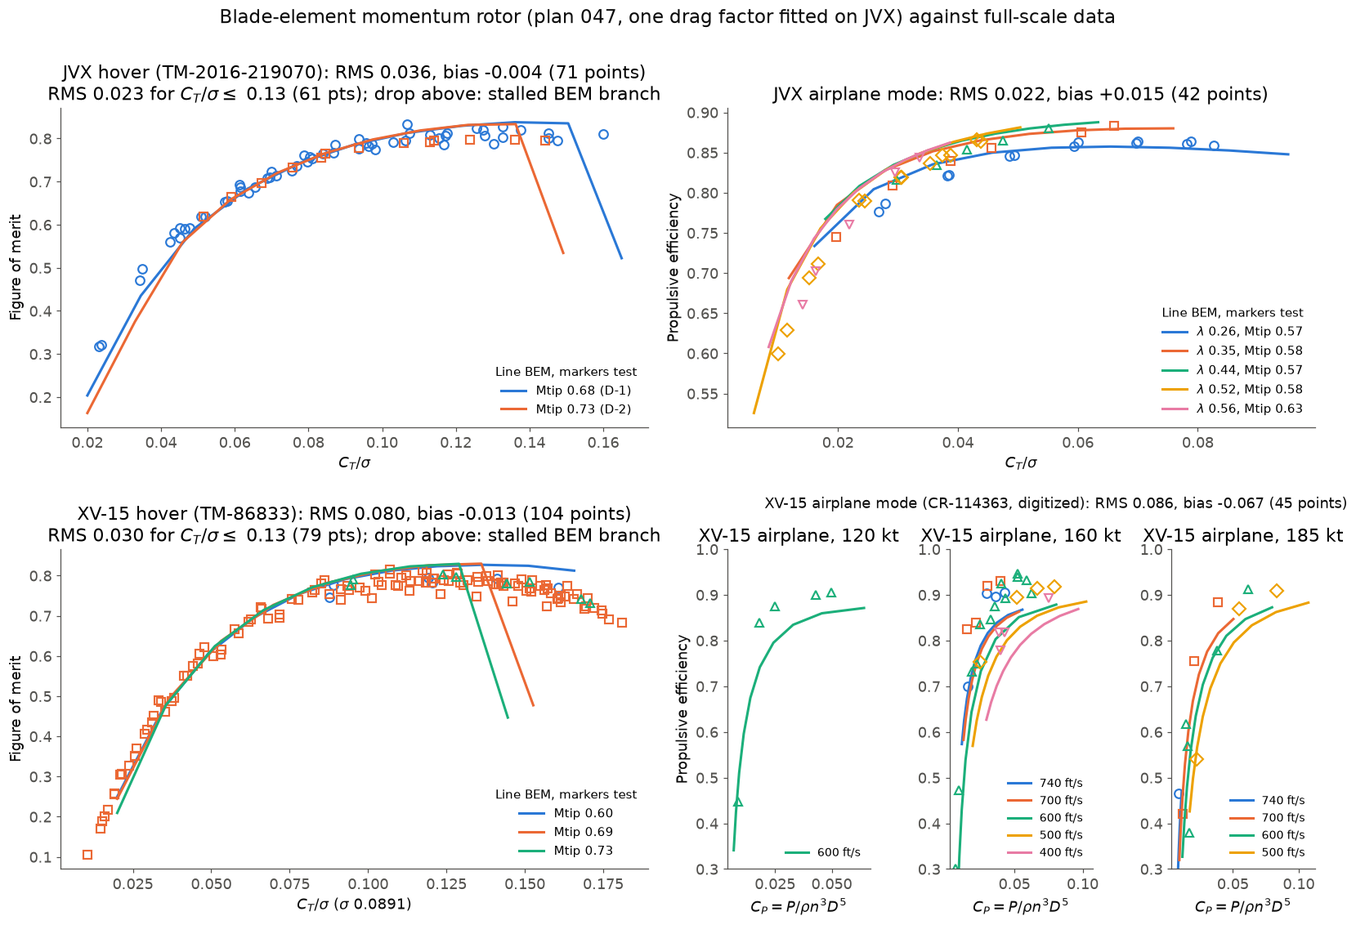
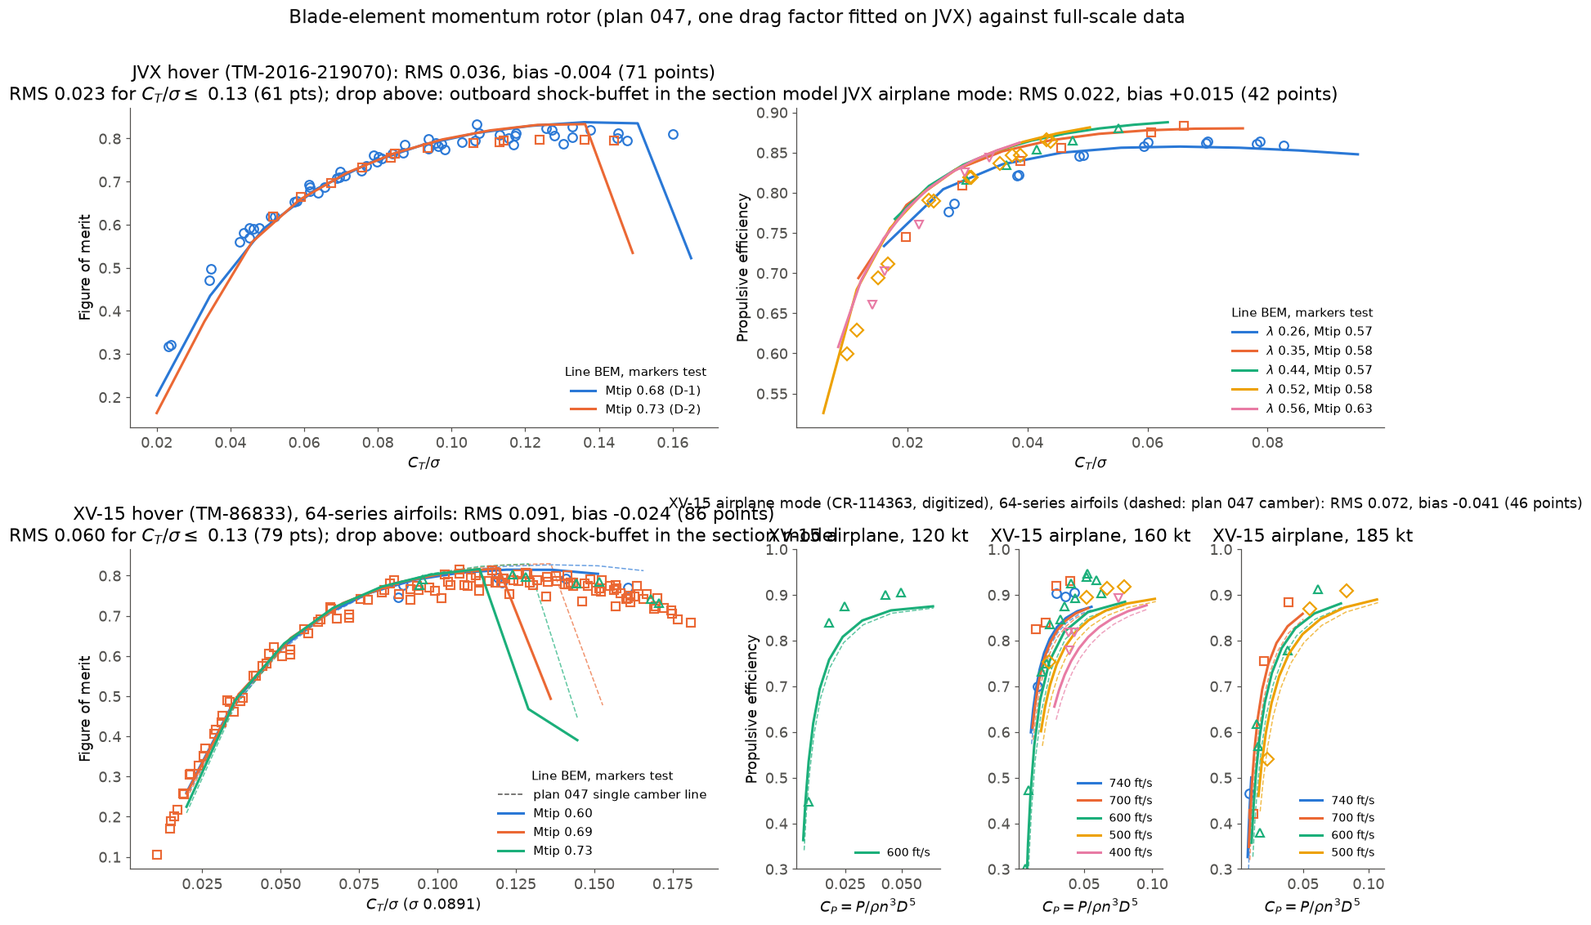
feat(powertrain): XV-15 BEM on its own NACA 64-series airfoils; hover cliff traced to outboard buffet (plan 052)
SectionSchedule.lift_design builds each station as 64-series thickness on an a-series mean line
at the local design lift coefficient, with thin-airfoil zero-lift angles for the stall delay.
XV-15 airplane-mode bias -0.067 -> -0.041. The hover drop above C_T/sigma ~0.13 is Mach-driven:
AeroSandbox's shock-buffet onset on the outboard sections, not inboard stall. Hover sweeps keep the
highest-FM solution of every start.

diff --git a/examples/proprotor_bemt_curves.py b/examples/proprotor_bemt_curves.py
@@ -15,8 +15,8 @@ The drag factor stays at the JVX fit (0.964): the XV-15 is a prediction, not a f
 XV-15 blade (TM-86833 Table I and figures 5-8; CR-114363 Table III-1): radius 150 in, 3 blades, solidity 0.0891;
 chord 14 in, with the root cuff tapering from 16.6 in at 0.091 R to 14 in at 0.25 R; twist digitized from figure 5
 (about 36 deg from 0.10 R to the tip, nonlinear); t/c from figure 6 (0.32 at the root to 0.08 at the tip). Sections are
-the plan 047 family (one NACA 64A210 camber line, thickness scaled); the real blade's NACA 64-935 to 64-208 sections
-carry much more camber inboard, which this does not model. Root cutout 0.09 R.
+the blade's own NACA 64-935 to 64-208 sections (a = 0.3 mean line at each design lift coefficient, `airfoils="64-series"`,
+the default) or plan 047's single 64A210 camber line (`airfoils="plan-047"`). Root cutout 0.09 R.
 
 Model error is read off the curve: each measured point is compared with the curve interpolated at its own C_T/sigma
 (hover, JVX airplane mode) or C_P (XV-15 airplane mode).
@@ -57,9 +57,23 @@ def xv15_blade():
                          fraction_control_chord=(0.09, 0.25, 1.0), interpolation_chord="linear")
 
 
-def xv15_rotor(drag_factor=None, **kwargs):
-    sections = SectionSchedule(fraction_radius=(0.09, 0.17, 0.30, 0.51, 0.80, 1.00),
-                               thickness_to_chord=(0.32, 0.28, 0.235, 0.185, 0.125, 0.082))
+# XV-15 airfoils (TM-86833 fig. 8; CR-114363 Table III-1, a = 0.3 mean line): NACA 64-935, 64-528, 64-118,
+# 64-(1.5)12 and 64-208 at 0.09, 0.17, 0.51, 0.80 and 1.0 R; design lift coefficient = first digit after the dash / 10.
+airfoil_xv15_fraction = (0.09, 0.17, 0.51, 0.80, 1.00)
+lift_design_xv15 = (0.9, 0.5, 0.1, 0.15, 0.2)
+
+
+def xv15_rotor(drag_factor=None, airfoils="64-series", **kwargs):
+    """`airfoils` "64-series": the blade's own NACA 64-series sections (a = 0.3 mean line at each station's design
+    lift coefficient, t/c from fig. 6); "plan-047": the single NACA 64A210 camber line of plan 047."""
+    fractions = (0.09, 0.17, 0.30, 0.51, 0.80, 1.00)
+    thickness = (0.32, 0.28, 0.235, 0.185, 0.125, 0.082)
+    if airfoils == "64-series":
+        sections = SectionSchedule(fraction_radius=fractions, thickness_to_chord=thickness,
+                                   lift_design=tuple(onp.interp(fractions, airfoil_xv15_fraction, lift_design_xv15)),
+                                   mean_line_a=0.3)
+    else:
+        sections = SectionSchedule(fraction_radius=fractions, thickness_to_chord=thickness)
     extra = {} if drag_factor is None else {"drag_factor": drag_factor}
     return BladeElementRotor(radius_m=radius_xv15_m, count_blades=3, fraction_root=0.09, blade=xv15_blade(),
                              sections=sections, **extra, **kwargs)
@@ -177,14 +191,22 @@ def sweep(rotor, condition, start_fraction=0.6):
                                float(grid[index]), air=air)
         attempts = ([lambda: solve_point(rotor, point, guess=guess)] if guess is not None else []) + \
                    [lambda: solve_point_stepped(rotor, point), lambda: solve_point(rotor, point)]
+        # Near hover stall there are two solutions, attached and stalled, and continuation can drift onto the
+        # stalled one. In hover every start is tried and the lowest-power (highest-FM) solution kept; in airplane
+        # mode the first valid one is kept.
+        best = None
         for attempt in attempts:
             try:
                 result, collective = attempt()
             except RuntimeError:
                 continue
-            if valid(result, grid[index]):
+            if not valid(result, grid[index]):
+                continue
+            if condition.axial_velocity_m_s != 0:
                 return result, collective
-        return None
+            if best is None or result.figure_of_merit > best[0].figure_of_merit:
+                best = (result, collective)
+        return best
 
     start = int(round(start_fraction * (len(grid) - 1)))
     for order in (range(start, len(grid)), range(start - 1, -1, -1)):
@@ -229,16 +251,19 @@ def _curve(rotor, condition, solidity, kind):
     return Curve(condition, x, y, error)
 
 
-groups = ("jvx_hover", "jvx_airplane", "xv15_hover", "xv15_airplane")
+groups = ("jvx_hover", "jvx_airplane", "xv15_hover", "xv15_airplane", "xv15_hover_plan047", "xv15_airplane_plan047")
 cache_dir = root / "output"
 
 
 def study_group(key):
     """Sweep one group of curves and cache it (the four groups are independent and can run in parallel)."""
-    rotor = jvx_rotor(BladeElementRotor().drag_factor) if key.startswith("jvx") else xv15_rotor()
+    if key.startswith("jvx"):
+        rotor = jvx_rotor(BladeElementRotor().drag_factor)
+    else:
+        rotor = xv15_rotor(airfoils="plan-047" if key.endswith("plan047") else "64-series")
     solidity = solidity_jvx if key.startswith("jvx") else solidity_xv15
-    conditions = dict(zip(groups, jvx_conditions() + xv15_conditions()))[key]
-    kind = "power_propeller" if key == "xv15_airplane" else "blade_loading"
+    conditions = dict(zip(groups, jvx_conditions() + xv15_conditions() + xv15_conditions()))[key]
+    kind = "power_propeller" if key.startswith("xv15_airplane") else "blade_loading"
     curves = [_curve(rotor, condition, solidity, kind) for condition in conditions]
     cache_dir.mkdir(exist_ok=True)
     with open(cache_dir / f"proprotor_bemt_curves_{key}.pkl", "wb") as handle:
@@ -258,7 +283,7 @@ def rms(curves, mask=None):
     return float(onp.sqrt(onp.mean(error**2))), float(onp.mean(error)), len(error)
 
 
-blade_loading_attached = 0.13      # above this the BEM hover curves fall onto an inboard-stalled branch
+blade_loading_attached = 0.13      # above about this the BEM hover curves drop (outboard shock-buffet onset, plan 052)
 
 
 def attached(curve):
@@ -280,9 +305,13 @@ def make_figure(curves, path=root / "docs" / "figures" / "proprotor_bemt_curves.
                "$C_T/\\sigma$", "Figure of merit"),
               (figure.add_subplot(grid[0, 3:6]), curves["jvx_airplane"], "JVX airplane mode",
                "$C_T/\\sigma$", "Propulsive efficiency"),
-              (figure.add_subplot(grid[1, 0:3]), curves["xv15_hover"], "XV-15 hover (TM-86833)",
+              (figure.add_subplot(grid[1, 0:3]), curves["xv15_hover"], "XV-15 hover (TM-86833), 64-series airfoils",
                "$C_T/\\sigma$ ($\\sigma$ 0.0891)", "Figure of merit")]
     for ax, group, title, xlabel, ylabel in panels:
+        if group is curves["xv15_hover"] and "xv15_hover_plan047" in curves:
+            for k, curve in enumerate(curves["xv15_hover_plan047"]):
+                ax.plot(curve.x, curve.y, "--", color=palette[k], lw=1, alpha=0.7)
+            ax.plot([], [], "--", color=ink_muted, lw=1, label="plan 047 single camber line")
         for k, curve in enumerate(group):
             c = curve.condition
             ax.plot(c.measured_x, c.measured_y, markers[k], color=palette[k], ms=7, mfc="none", mew=1.4)
@@ -293,7 +322,7 @@ def make_figure(curves, path=root / "docs" / "figures" / "proprotor_bemt_curves.
         if group[0].condition.axial_velocity_m_s == 0:
             r_attached, _, n_attached = rms(group, attached)
             title += (f"\nRMS {r_attached:.3f} for $C_T/\\sigma \\leq$ {blade_loading_attached:.2f} ({n_attached} pts); "
-                      "drop above: stalled BEM branch")
+                      "drop above: outboard shock-buffet in the section model")
         ax.set(xlabel=xlabel, ylabel=ylabel, title=title)
         ax.legend(frameon=False, fontsize=10, loc="lower right", title="Line BEM, markers test", title_fontsize=10)
     airplane = curves["xv15_airplane"]
@@ -301,6 +330,9 @@ def make_figure(curves, path=root / "docs" / "figures" / "proprotor_bemt_curves.
     tips = sorted({int(c.condition.label.split(", ")[1].split(" ")[0]) for c in airplane}, reverse=True)
     for j, v_kt in enumerate(speeds):
         ax = figure.add_subplot(grid[1, 3 + j])
+        for curve in [c for c in curves.get("xv15_airplane_plan047", []) if c.condition.label.startswith(f"{v_kt} kt")]:
+            tip = int(curve.condition.label.split(", ")[1].split(" ")[0])
+            ax.plot(curve.x, curve.y, "--", color=palette[tips.index(tip)], lw=1, alpha=0.7)
         for curve in [c for c in airplane if c.condition.label.startswith(f"{v_kt} kt")]:
             tip = int(curve.condition.label.split(", ")[1].split(" ")[0])
             k = tips.index(tip)
@@ -312,7 +344,7 @@ def make_figure(curves, path=root / "docs" / "figures" / "proprotor_bemt_curves.
             ax.set_ylabel("Propulsive efficiency")
         ax.legend(frameon=False, fontsize=9, loc="lower right")
     r, bias, n = rms(airplane)
-    figure.text(0.74, 0.475, f"XV-15 airplane mode (CR-114363, digitized): RMS {r:.3f}, bias {bias:+.3f} ({n} points)",
+    figure.text(0.74, 0.475, f"XV-15 airplane mode (CR-114363, digitized), 64-series airfoils (dashed: plan 047 camber): RMS {r:.3f}, bias {bias:+.3f} ({n} points)",
                 ha="center", fontsize=12, color=ink)
     figure.suptitle("Blade-element momentum rotor (plan 047, one drag factor fitted on JVX) against full-scale data",
                     fontsize=15, color=ink)

diff --git a/src/aircraft_closure/powertrain/components/rotor_bemt.py b/src/aircraft_closure/powertrain/components/rotor_bemt.py
@@ -30,6 +30,7 @@ Validity and calibration (plan 047): see `examples/jvx_rotor_bemt.py`; `drag_fac
 section drag and is the one calibration constant.
 """
 from dataclasses import dataclass, fields, replace
+from functools import lru_cache
 from typing import Any
 
 import aerosandbox as asb
@@ -60,29 +61,78 @@ def _as_vector(values):
     return values
 
 
+def camber_a_meanline(x, lift_design, a=0.3):
+    """NACA a-series mean line y/c at chord fractions x for design lift coefficient `lift_design`
+    (Abbott and von Doenhoff, Theory of Wing Sections, eq. 4.26); load uniform to x = a, then linear to zero."""
+    x = onp.clip(onp.asarray(x, dtype=float), 1e-9, 1 - 1e-9)
+    g = -1 / (1 - a) * (a**2 * (0.5 * onp.log(a) - 0.25) + 0.25)
+    h = 1 / (1 - a) * (0.5 * (1 - a)**2 * onp.log(1 - a) - 0.25 * (1 - a)**2) + g
+    d = onp.abs(a - x)
+    term = onp.where(d > 1e-12, 0.5 * (a - x)**2 * onp.log(onp.maximum(d, 1e-300)), 0.0)
+    y = lift_design / (2 * onp.pi * (a + 1)) * (
+        1 / (1 - a) * (term - 0.5 * (1 - x)**2 * onp.log(1 - x) + 0.25 * (1 - x)**2 - 0.25 * (a - x)**2)
+        - x * onp.log(x) + g - h * x)
+    return y
+
+
+@lru_cache(maxsize=64)
+def _section_airfoils(schedule, fractions):
+    base = asb.Airfoil(schedule.airfoil_base).to_kulfan_airfoil()
+    thickness_base = base.max_thickness()
+    camber = (base.upper_weights + base.lower_weights) / 2
+    half = (base.upper_weights - base.lower_weights) / 2
+    x = (1 - onp.cos(onp.linspace(0, onp.pi, 121))) / 2
+    result = []
+    for fraction in fractions:
+        scale = onp.interp(fraction, schedule.fraction_radius, schedule.thickness_to_chord) / thickness_base
+        if schedule.lift_design is None:
+            result.append(asb.KulfanAirfoil(name=f"section_{fraction:.3f}", upper_weights=camber + scale * half,
+                                            lower_weights=camber - scale * half,
+                                            leading_edge_weight=base.leading_edge_weight * scale,
+                                            TE_thickness=base.TE_thickness))
+            continue
+        # Base thickness form at the local t/c on an a-series mean line at the local design lift coefficient
+        # (thickness laid off vertically from the mean line).
+        thickness_half = scale * asb.KulfanAirfoil(upper_weights=half, lower_weights=-half,
+                                                   leading_edge_weight=0.0, TE_thickness=0.0).local_thickness(x) / 2
+        mean = camber_a_meanline(x, onp.interp(fraction, schedule.fraction_radius, schedule.lift_design),
+                                 schedule.mean_line_a)
+        upper = onp.stack([x[::-1], (mean + thickness_half)[::-1]], axis=1)
+        lower = onp.stack([x[1:], (mean - thickness_half)[1:]], axis=1)
+        result.append(asb.Airfoil(name=f"section_{fraction:.3f}", coordinates=onp.concatenate([upper, lower]))
+                      .to_kulfan_airfoil())
+    return tuple(result)
+
+
 @dataclass(frozen=True)
 class SectionSchedule:
-    """Fixed airfoil family along the blade: a base camber line with thickness scaled to the local t/c."""
+    """Fixed airfoil family along the blade: a base thickness form scaled to the local t/c, on the base camber
+    line (default) or, when `lift_design` is given, on a NACA a-series mean line at the local design lift
+    coefficient (e.g. the XV-15's NACA 64-935 to 64-208 sections, a = 0.3)."""
     fraction_radius: tuple = (0.10, 0.40, 0.75, 1.00)
     thickness_to_chord: tuple = (0.28, 0.18, 0.12, 0.09)    # XN-28/18/12/09 stand-in (assumed)
     airfoil_base: str = "naca64a210"
     model_size: str = "medium"
     angle_zero_lift_deg: float = -1.66       # NACA 64A210 camber line, NeuralFoil at Re 5e6
     fraction_chord_transition: float = 0.05  # forced transition x/c, both surfaces: full-scale blades run turbulent
+    lift_design: tuple = None                # design lift coefficient at `fraction_radius`; None: base camber
+    mean_line_a: float = 0.3
 
     def airfoils(self, fractions):
-        base = asb.Airfoil(self.airfoil_base).to_kulfan_airfoil()
-        thickness_base = base.max_thickness()
-        camber = (base.upper_weights + base.lower_weights) / 2
-        half = (base.upper_weights - base.lower_weights) / 2
-        result = []
-        for fraction in fractions:
-            scale = onp.interp(fraction, self.fraction_radius, self.thickness_to_chord) / thickness_base
-            result.append(asb.KulfanAirfoil(name=f"section_{fraction:.3f}", upper_weights=camber + scale * half,
-                                            lower_weights=camber - scale * half,
-                                            leading_edge_weight=base.leading_edge_weight * scale,
-                                            TE_thickness=base.TE_thickness))
-        return result
+        return list(_section_airfoils(self, tuple(float(f) for f in fractions)))
+
+    def angles_zero_lift_deg(self, fractions):
+        """Zero-lift angle per station, for the stall-delay attached-lift line: the base value, or with
+        `lift_design` thin-airfoil theory for the a-series mean line, alpha_0 = alpha_ideal - c_li / (2 pi) with
+        alpha_ideal = -c_li h / (2 pi (a + 1)) (Abbott and von Doenhoff, eq. 4.27). Thin-airfoil theory, because
+        NeuralFoil's lift curve is unreliable on the thick (t/c > 0.25), cambered root sections."""
+        if self.lift_design is None:
+            return self.angle_zero_lift_deg
+        a = self.mean_line_a
+        g = -1 / (1 - a) * (a**2 * (0.5 * onp.log(a) - 0.25) + 0.25)
+        h = 1 / (1 - a) * (0.5 * (1 - a)**2 * onp.log(1 - a) - 0.25 * (1 - a)**2) + g
+        lift_design = onp.interp(onp.asarray(fractions, dtype=float), self.fraction_radius, self.lift_design)
+        return onp.degrees(-lift_design * h / (2 * onp.pi * (a + 1)) - lift_design / (2 * onp.pi))
 
 
 @dataclass(frozen=True)
@@ -190,7 +240,7 @@ class BladeElementRotor:
             # Rotational stall delay (Snel's 3 (c/r)^2, saturated by tanh): lift moves toward the attached-flow
             # line 2 pi sin(alpha - alpha_0) / beta in proportion to the factor.
             factor = np.tanh(3 * (chord_m / r_m)**2)
-            lift_attached = 2 * np.pi * np.sind(alpha_deg - self.sections.angle_zero_lift_deg) / np.sqrt(1 - mach**2)
+            lift_attached = 2 * np.pi * np.sind(alpha_deg - self.sections.angles_zero_lift_deg(fractions)) / np.sqrt(1 - mach**2)
             cl = cl + factor * (lift_attached - cl)
         cd = (np.array(cd_list) if not isinstance(cd_list[0], onp.ndarray) else onp.concatenate(cd_list)) * self.drag_factor
 

diff --git a/tests/integration/test_xv15_bemt.py b/tests/integration/test_xv15_bemt.py
@@ -1,6 +1,6 @@
 """Blade-element momentum rotor on the full-scale XV-15 rotor (plan 052), a few points of the curves in
 examples/proprotor_bemt_curves.py (full set: hover FM RMS 0.030 for C_T/sigma <= 0.13; airplane-mode efficiency
-0.07 below the 1971 data on average).
+0.04 below the 1971 data on average).
 """
 import unittest
 

diff --git a/docs/decisions/052-bem-xv15-jvx-curves.md b/docs/decisions/052-bem-xv15-jvx-curves.md
@@ -6,7 +6,7 @@ Status: COMPLETED 2026-10-11.
 
 Plan 047 checked the blade-element momentum rotor (`rotor_bemt`) against JVX point by point. This plan draws the
 BEM as continuous performance curves over the test data, in the form the reports plot them, and adds the XV-15 as
-an independent check. The drag factor stays at the JVX fit (0.964), so the XV-15 results are predictions.
+an independent check. The drag factor stays at the JVX fit (0.964), so the XV-15 results are predictions. The XV-15 runs with its own NACA 64-series airfoils; plan 047's single camber line is kept as a comparison (dashed in the figure).
 
 ![BEM curves against JVX and XV-15](../figures/proprotor_bemt_curves.png)
 
@@ -35,10 +35,18 @@ an independent check. The drag factor stays at the JVX fit (0.964), so the XV-15
 | Twist | Digitized from TM-86833 fig. 5: +29.7 deg at 0.10 R, 0 at 0.77 R, -5.1 deg at 0.95 R; tip extrapolated to -6.3 deg (about 36 deg over the blade, nonlinear) | fig. 5 |
 | t/c | 0.32 at 0.09 R, 0.28 at 0.17 R, 0.185 at 0.51 R, 0.125 at 0.80 R, 0.082 at the tip | fig. 6 |
 | Root cutout | 0.09 R | first airfoil station, fig. 8 |
-| Sections | plan 047 family: one NACA 64A210 camber line with the thickness scaled | assumption |
+| Sections (default) | The blade's own NACA 64-935, 64-528, 64-118, 64-(1.5)12 and 64-208 at 0.09, 0.17, 0.51, 0.80 and 1.0 R: 64-series thickness at the local t/c on an a = 0.3 mean line at the local design lift coefficient (0.9, 0.5, 0.1, 0.15, 0.2), interpolated in radius | TM-86833 fig. 8, CR-114363 Table III-1 |
+| Sections (comparison) | plan 047 family: one NACA 64A210 camber line with the thickness scaled (`airfoils="plan-047"`) | plan 047 |
 
-**The section assumption is the main gap.** The real blade runs from a NACA 64-935 root (design lift coefficient
-0.9) to a 64-208 tip, so its inboard sections carry far more camber than the model's.
+**Section model** (`SectionSchedule.lift_design`, new):
+
+- The a-series mean line is Abbott and von Doenhoff's closed form.
+- The stall-delay model's zero-lift angle comes per station from thin-airfoil theory for that mean line, -5.28 deg
+  per unit design lift. NeuralFoil's own zero-lift angle is not used: on the thick (t/c > 0.25), cambered root
+  sections its lift slope is 0.03-0.06 per degree instead of about 0.11, which is outside its training range.
+  Inboard of about 0.15 R the stall-delay blend replaces most of that 2-D lift anyway.
+- Check: the built 64-208 has NeuralFoil's zero-lift angle -1.11 deg against -1.06 deg from theory.
+- The default schedule (no `lift_design`) is unchanged, so JVX and the Halo blade design are unaffected.
 
 ## Method
 
@@ -62,30 +70,39 @@ an independent check. The drag factor stays at the JVX fit (0.964), so the XV-15
 | JVX hover, all | 71 | 0.036 | -0.004 |
 | JVX hover, C_T/sigma <= 0.13 | 61 | 0.023 | -0.003 |
 | JVX airplane mode, 5 advance ratios | 42 | 0.022 | +0.015 |
-| **XV-15 hover, C_T/sigma <= 0.13** | 79 | **0.030** | +0.012 |
-| XV-15 hover, all | 104 | 0.080 | -0.014 |
-| **XV-15 airplane mode** | 45 | **0.086** | **-0.067** |
+| XV-15 hover, 64-series airfoils, C_T/sigma <= 0.13 | 79 | 0.060 | -0.007 |
+| XV-15 hover, plan 047 camber line, C_T/sigma <= 0.13 | 79 | 0.030 | +0.012 |
+| **XV-15 airplane mode, 64-series airfoils** | 46 | **0.072** | **-0.041** |
+| XV-15 airplane mode, plan 047 camber line | 45 | 0.086 | -0.067 |
 
 - **JVX.** The curves reproduce plan 047's point-by-point numbers (hover 0.018-0.040, airplane mode 0.025), as
   they should.
-- **XV-15 hover is predicted well up to C_T/sigma 0.13.** The curve follows the data from FM 0.2 to 0.8, about
-  0.01-0.03 optimistic near the FM peak.
-- **Above C_T/sigma 0.13 to 0.14, every BEM hover curve drops onto a stalled branch.** XV-15 at Mtip 0.69 and
-  0.73, and JVX at both tip Machs, while the data stay near FM 0.72-0.80 up to C_T/sigma 0.18.
-  - This is the same failure plan 047 found at the two highest-thrust JVX points, now seen on a second rotor.
-  - The inboard sections stall in the model and not in the test. Likely causes: the 2-D NeuralFoil stall on one
-    lightly cambered section family, and a stall-delay model that is too weak.
-  - **This bears directly on plan 047's finding that the 0.060-solidity Halo blade has no attached hover solution
-    at C_T/sigma 0.14.** That result sits in the band where the BEM is now shown to be conservative against two
-    full-scale rotors.
-- **XV-15 airplane mode: the BEM is about 0.07 low against the 1971 data,** largest at J 1.21-1.41 (up to 0.19).
-  - The curve shapes and the tip-speed ordering are right.
-  - Bell's own calculated curves in the same figures are also below the data. The BEM lands close to them and
-    slightly lower.
+- **XV-15 hover is predicted well up to C_T/sigma 0.12 with either airfoil set.** The curve follows the data from
+  FM 0.2 to 0.8. The 64-series RMS below 0.13 is higher only because its drop starts a little earlier, between the
+  0.12 and 0.136 grid points.
+- **The real airfoils improve airplane mode.** The bias goes from -0.067 to -0.041 and every condition moves
+  toward the data.
+- **Above C_T/sigma about 0.12 to 0.14 the BEM hover curves drop sharply, and the cause is outboard shock-buffet,
+  not inboard stall.**
+  - The drop moves with tip Mach. At Mtip 0.60 the XV-15 curve stays attached to C_T/sigma 0.165 and follows the
+    data; at 0.69 it drops near 0.13, at 0.73 near 0.12. JVX at Mtip 0.68 and 0.73 behaves the same way.
+  - Spanwise check (64-series, Mtip 0.69, C_T/sigma 0.125): the inboard sections are attached with stall delay.
+    The 0.76 R station sits at 6 deg.
+  - NeuralFoil (AeroSandbox's Mach model) at that station, M 0.52: lift falls from 0.84 at 6 deg to 0.60 at 8 deg.
+    At M 0.46 (Mtip 0.60) it rises to 1.09 at 9 deg. At 0.90 R and M 0.62 it falls above 4 deg.
+  - So the cliff is AeroSandbox's shock-buffet onset on the outboard 12 % and 8 % sections. A real
+    64-(1.5)12 or 64-208 at Mach 0.5 should not lose lift that abruptly at 7 deg.
+  - Camber does not fix it. Branch selection does not either: at each hover point every start is tried and the
+    highest-FM solution kept.
+  - **This bears directly on plan 047's Halo hover finding.** Its outboard stall margin was defined from the same
+    buffet onset (about 6 deg at 0.76 R, 2.5 deg at the tip), so the 0.060-solidity blade's "no attached hover
+    solution" result is a product of this section model and not yet a physical finding.
+- **XV-15 airplane mode is still about 0.04 low** against the 1971 data.
+  - Bell's own calculated curves in the same figures are also below the data.
   - The data scatter by about +/-0.04, and several points read 0.93-0.95, close to the momentum limit.
-  - The JVX airplane-mode data (2016, better instrumented) agree with the BEM within 0.022. The 1971 XV-15
-    numbers are therefore the weaker evidence. The likely contributors are the inboard camber gap, an unmodelled
-    hub/spinner force convention in "propulsive force", and the reading error.
+  - The JVX airplane-mode data (2016, better instrumented) agree with the BEM within 0.022, so the 1971 XV-15
+    numbers are the weaker evidence. A hub/spinner force convention in "propulsive force" and the reading error
+    may account for the rest.
 
 ## Tests
 
@@ -100,12 +117,13 @@ an independent check. The drag factor stays at the JVX fit (0.964), so the XV-15
 
 ## Next
 
-1. **High-thrust hover.**
-   - Calibrate or replace the stall-delay model so the hover curves stay attached to C_T/sigma 0.18 on both rotors,
-     e.g. Du-Selig or Corrigan-Schillings in place of the saturated Snel factor.
-   - Then re-run plan 047's Halo blade solidity finding before the reference solidity floor is changed.
-2. **XV-15 sections.** A per-station camber schedule (64-935 to 64-208) would test whether the airplane-mode deficit
-   and the high-thrust stall come from the camber gap.
+1. **High-Mach section polars.**
+   - Replace AeroSandbox's shock-buffet onset on the outboard sections with transonic data or a calibrated model,
+     e.g. NACA 64-series high-speed data (NACA TN 1945 family), MSES or XFOIL with a compressibility correction.
+   - Check that the hover curves then stay attached to C_T/sigma 0.18 at Mtip 0.69-0.73 on both rotors.
+   - Then re-run plan 047's Halo blade design before the reference solidity floor is changed.
+2. **JVX sections.** Apply the same per-station camber treatment to the JVX XN-series blade if its design lift
+   coefficients can be found.
 3. **Better XV-15 airplane-mode data.** If a tabulated source turns up, replace the digitized figures:
    - the 1978 complete-aircraft 40x80 test;
    - the TTR / NFAC entries.
